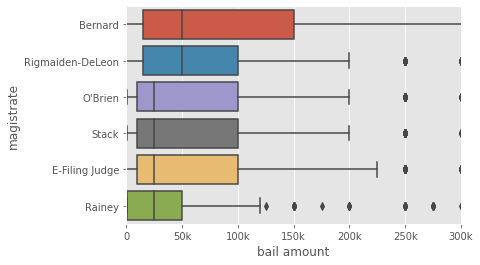
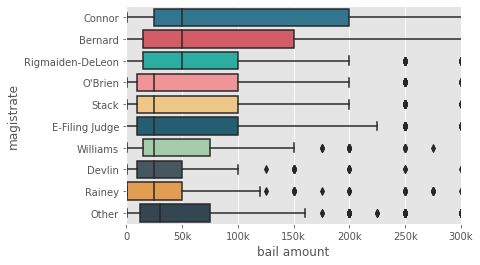
Added figure for magistrate page

diff --git a/dashboard/magistrate.py b/dashboard/magistrate.py
@@ -5,9 +5,15 @@ def app():
     st.title('Breakdown by Magistrate')
     st.write('In progress')
 
-    ### Summary plots
-    # number of cases
+    ### 2020 Summary plots
 
+    # !!!!! TODO !!!!!
+    # Explain selection of magistrates (Those who handled more than 500 cases)
+    # Some timeline (Many were involved consistently throughout the year. Some were seasonal)
+    # Explain 'Others': Those who set fewer than 500 cases. Total number of those labeled as "Others"
+
+    # number of cases
+    st.header("Year End Summary by Magistrate")
     st.subheader("Number of cases handled by each magistrate")
     image = Image.open('figures/magistrate_case_count.png')
     st.image(image)
@@ -16,13 +22,23 @@ def app():
     image = Image.open('figures/magistrate_type_summary.png')
     st.image(image, use_column_width=True)
     # bail amount
-
     st.subheader("Monetary bail amount set by each magistrate")
     image = Image.open('figures/magistrate_amount_summary.png')
     st.image(image)
 
-    ### Plots for matched sample 
+    ### Comparison controling for offense types 
+    st.header("Analysis while controling for offense types")
 
-    # number of cases
+    # !!!!! TODO !!!!!
+    # Explain the matched analysis. How many cases are sampled for the analysis
+    # Explain the selection of 5 magistrates (those who handled more than 1000 cases)
+    # Write interpretations
+    
     # bail type
+    st.subheader("Percentage of bail type for each magistrate")
+    image = Image.open('figures/magistrate_matched_type.png')
+    st.image(image, use_column_width=True)
     # bail amount
+    st.subheader("Monetary bail amount set by each magistrate")
+    image = Image.open('figures/magistrate_matched_amount.png')
+    st.image(image)
